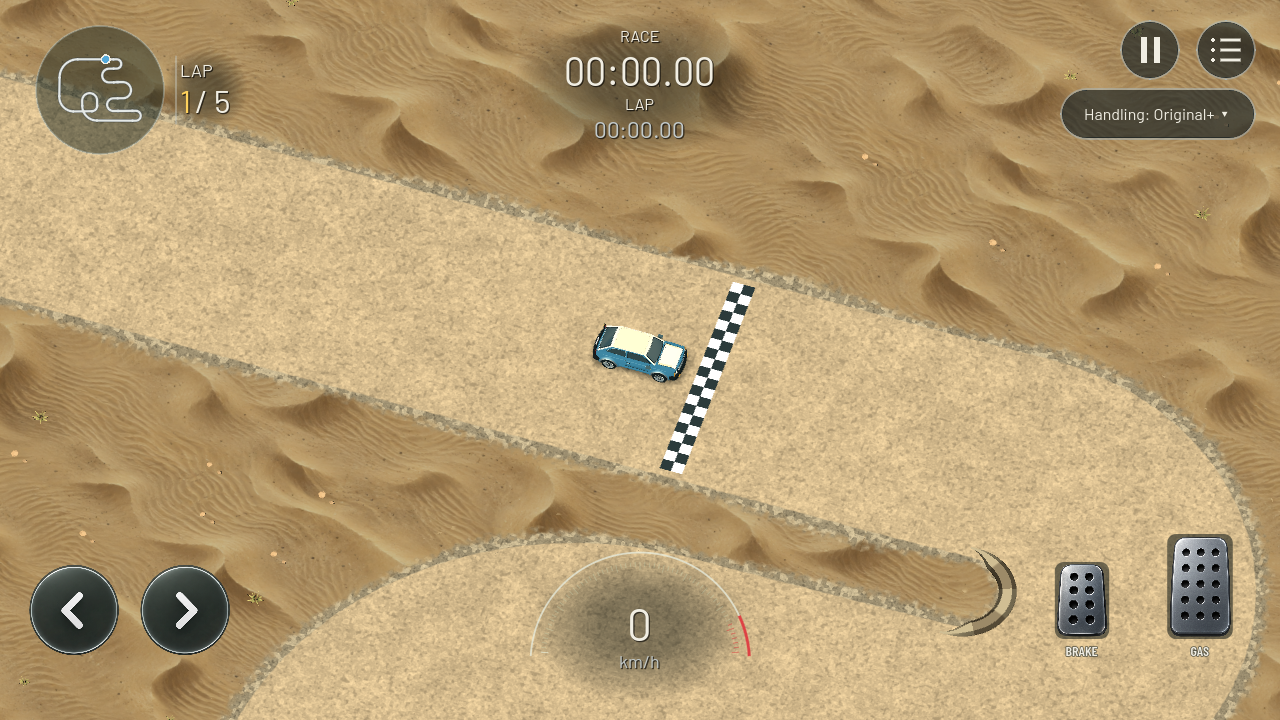
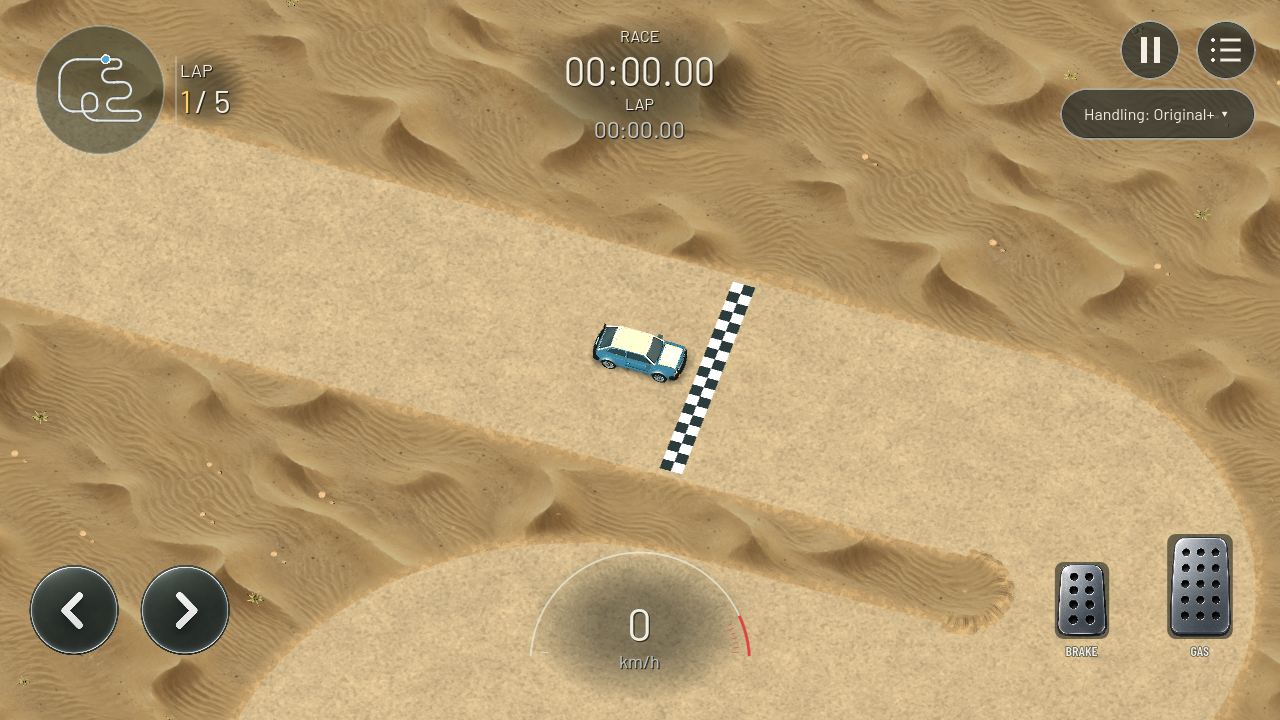
Replace desert kerb visuals with irregular sand berms

diff --git a/docs/DESERT_BERMS.md b/docs/DESERT_BERMS.md
@@ -1,0 +1,20 @@
+# Reference-directed sand berms
+
+2026-09-24, V02/V04/V05/Q01, kit 61. Owner supplied a desert board specifying low natural sand berms instead of striped kerbs, compacted shoulders and soft straight edges. This supersedes the previous stone-coloured kerb presentation.
+
+Creator desert bends now use a three-band shoulder mesh with uneven sand crowns (approximately 6-26 cm above its base), actual facet normals and shaded slopes. The separate kerb render mesh is omitted for these tracks. Straights retain flat shoulders with a wider smooth blend into dunes. Legacy grid tracks retain their existing footprint but use irregular sand crowns and unstriped grain shading. Canonical kerb contacts remain unchanged; these banks are visual geometry, not new obstacle physics.
+
+Road gravel contrast is reduced from the previous coarse stipple, with three filtered baked samples along the local road axis for subtle directional wear. It does not create permanent tyre tracks; live vehicle trails remain. Shoulders use warmer packed earth rather than grey gravel. Existing rocks and scrub remain; the reference's optional additional boulders/markers are not added as new collisions.
+
+Changes: `game/track/native_track_visual.gd`, `creator_road.gdshader`, `surface_detail.gdshaderinc`, `kerb.gdshader`, status/plan and evidence. No new bitmap assets. Curved shoulder sections have 18 rather than 6 vertices per section, still in the existing shoulder batch; their separate kerb draw is removed. Road-axis wear adds three texture samples. These costs require phone measurement, not a claim of free performance.
+
+[Inspected gameplay capture](evidence/desert-berms/sand-berms.png). Reference composition and dense detailed scenery are not claimed as reproduced exactly.
+
+Actual pinned Godot 4.7.2 commands via `powershell -NoProfile -ExecutionPolicy Bypass -File scripts/dev.ps1`:
+
+- `-Action CaptureDesert -Track track_3e26605a8a90165e`: 50 checks, zero failures after final geometry/normal change, including five-car deterministic behavior and dust.
+- `-Action TestSurfaces`: 50 checks, zero failures during material pass.
+
+Remaining acceptance: owner appearance review, road readability through a full lap, physical-device frame pacing/thermal cost, and alignment of cosmetic bank shape with retained kerb contact behavior. Full physics regressions were not rerun because canonical physics did not change.
+
+Final `-Action ExportAndroid -QuickValidation` passed import/startup, 74 driving, 18 catalog and 22 menu checks and exported successfully. SDK `adb install -r build/android/circuit01-debug.apk` succeeded on the attached phone. No device rendering/performance test was performed. Existing build-tools 35.0.1 fallback and two ObjectDB shutdown leaks in driving tests remain.

diff --git a/docs/PHASE_0_PLAN.md b/docs/PHASE_0_PLAN.md
@@ -1,5 +1,7 @@
 # Phase 0: specification review and first slice
 
+2026-09-24 V02/V04/V05/Q01: kit 61 replaces visible desert creator kerbs with low irregular sand banks, softens straight shoulders and adds road-axis filtered wear. CaptureDesert 50 and TestSurfaces 50 checks pass. Desktop evidence inspected; see docs/DESERT_BERMS.md for scope and device limits.
+
 2026-09-24 V02/V04/V05/Q01: kit 60 restores a distinct rough gravel shoulder between desert road and dunes, including behind stone kerbs, and strengthens baked road grain/wear. CaptureDesert 50 and TestSurfaces 50 checks pass. Gameplay screenshot inspected. See docs/DESERT_SHOULDERS.md.
 
 2026-09-24 V02/V04/V05/Q01: kit 59 gives desert roads muted compacted sand/gravel, sandstone kerbs and no white edge stripes. Normal daylight supersedes the sunset request; dune pigment is retuned for daylight. Saved-track CaptureDesert 50, TestSurfaces 50 and TestBiomes 92 pass; Android quick export passes 74 driving, 18 catalog and 22 menu checks. Desktop screenshot inspected. See docs/DESERT_DAYLIGHT.md for device status and acceptance.

diff --git a/DEVELOPMENT_STATUS.md b/DEVELOPMENT_STATUS.md
@@ -1,5 +1,7 @@
 # Development status
 
+2026-09-24 V02/V04/V05/Q01: kit 61 replaces visible desert creator kerbs with low irregular sand banks, softens straight shoulders and adds road-axis filtered wear. CaptureDesert 50 and TestSurfaces 50 checks pass. Desktop evidence inspected; see docs/DESERT_BERMS.md for scope and device limits.
+
 2026-09-24 V02/V04/V05/Q01: kit 60 restores a distinct rough gravel shoulder between desert road and dunes, including behind stone kerbs, and strengthens baked road grain/wear. CaptureDesert 50 and TestSurfaces 50 checks pass. Gameplay screenshot inspected. See docs/DESERT_SHOULDERS.md.
 
 2026-09-24 V02/V04/V05/Q01: kit 59 gives desert roads muted compacted sand/gravel, sandstone kerbs and no white edge stripes. Normal daylight supersedes the sunset request; dune pigment is retuned for daylight. Saved-track CaptureDesert 50, TestSurfaces 50 and TestBiomes 92 pass; Android quick export passes 74 driving, 18 catalog and 22 menu checks. Desktop screenshot inspected. See docs/DESERT_DAYLIGHT.md for device status and acceptance.

diff --git a/AGENTS.md b/AGENTS.md
@@ -89,3 +89,6 @@ The owner requests desert roads to always be a distinct, more drivable compacted
 
 ## Desert daylight and road override (2026-09-24)
 The owner accepted dune ground and requests reference-informed compacted desert roads and suitable kerbs. Normal daylight supersedes the red-orange sunset until a later lighting pass. Dust and canonical packed-sand driving remain unchanged. See docs/DESERT_DAYLIGHT.md.
+
+## Desert berm reference override (2026-09-24)
+The owner supplied a sand-berm reference, superseding striped/stone desert kerb presentation. Use irregular low sand banks at bends, compacted shoulders and soft straight transitions. See docs/DESERT_BERMS.md.
